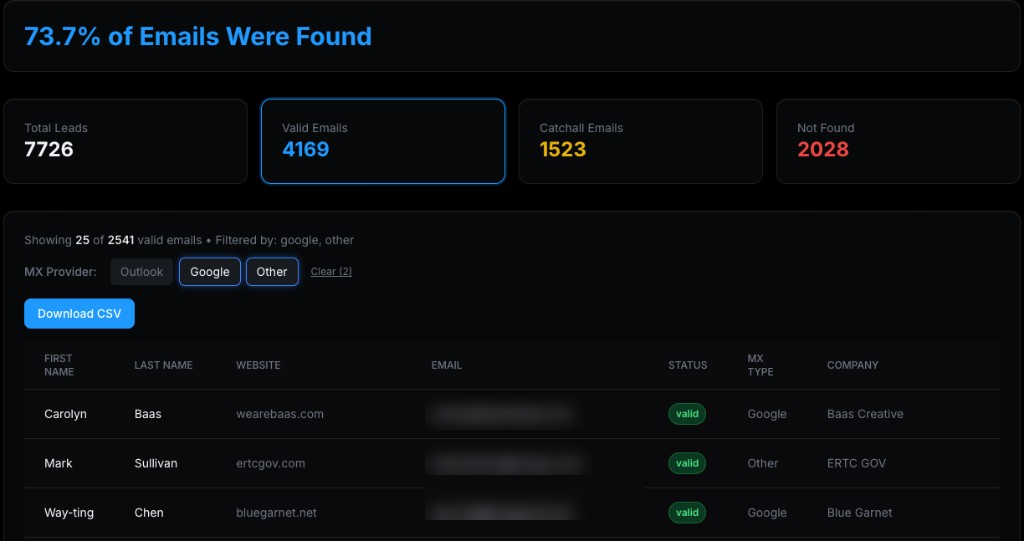
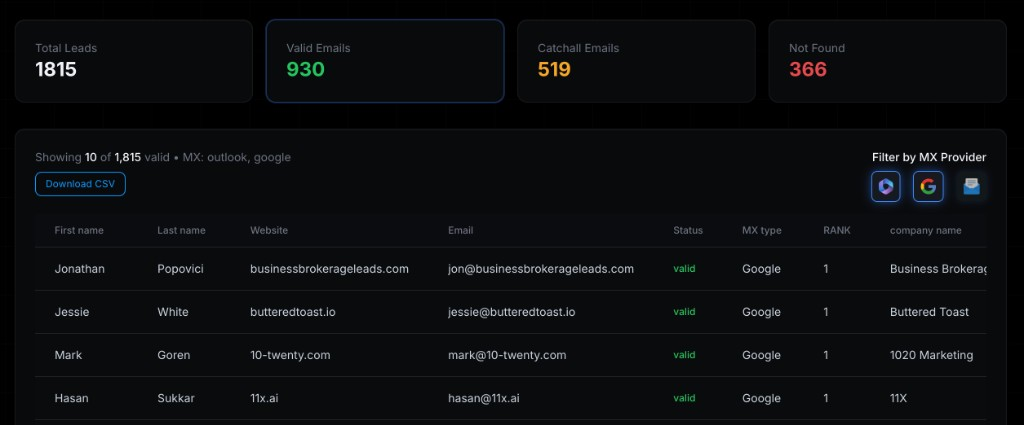
UI polish: LinkedIn branding, input focus states, and marketing page updates
- Replace LinkedIn blue dot with official LinkedIn logo in Sales Nav scraper
- Update Footer LinkedIn icon to brand color (#0A66C2)
- Change input focus rings to subtle blue glow (matches glass-card buttons)
- Update marketing page screenshot with email blurring overlay
- Standardize Download CSV button styling across Results and Sales Nav pages
- Refine Sales Nav cookie status messaging ("Cookie Set" vs "Add cookie")

Made-with: Cursor

diff --git a/frontend/app/(dashboard)/sales-nav-scraper/page.tsx b/frontend/app/(dashboard)/sales-nav-scraper/page.tsx
@@ -533,28 +533,24 @@ export default function SalesNavScraperPage() {
       <div className="glass-card px-6 py-3 mb-6">
         <div className="flex items-center justify-between">
           <div className="flex items-center gap-3">
+            <svg className="w-6 h-6 text-[#0A66C2]" fill="currentColor" viewBox="0 0 24 24">
+              <path d="M20.447 20.452h-3.554v-5.569c0-1.328-.027-3.037-1.852-3.037-1.853 0-2.136 1.445-2.136 2.939v5.667H9.351V9h3.414v1.561h.046c.477-.9 1.637-1.85 3.37-1.85 3.601 0 4.267 2.37 4.267 5.455v6.286zM5.337 7.433c-1.144 0-2.063-.926-2.063-2.065 0-1.138.92-2.063 2.063-2.063 1.14 0 2.064.925 2.064 2.063 0 1.139-.925 2.065-2.064 2.065zm1.782 13.019H3.555V9h3.564v11.452zM22.225 0H1.771C.792 0 0 .774 0 1.729v20.542C0 23.227.792 24 1.771 24h20.451C23.2 24 24 23.227 24 22.271V1.729C24 .774 23.2 0 22.222 0h.003z" />
+            </svg>
             {linkedinCookie.trim() ? (
-              <>
-                <div className="w-3 h-3 rounded-full bg-green-500"></div>
-                <div>
-                  <p className="text-sm font-medium text-dashboard-text">LinkedIn Cookie Ready <span className="text-red-500">*</span></p>
-                  <p className="text-xs text-dashboard-text-muted">Custom cookie entered</p>
-                </div>
-              </>
+              <div>
+                <p className="text-sm font-medium text-dashboard-text">LinkedIn Cookie Set <span className="text-red-500">*</span></p>
+              </div>
             ) : (
-              <>
-                <div className="w-3 h-3 rounded-full bg-blue-500"></div>
-                <div>
-                  <p className="text-sm font-medium text-dashboard-text">LinkedIn Cookie <span className="text-red-500">*</span></p>
-                </div>
-              </>
+              <div>
+                <p className="text-sm font-medium text-dashboard-text">LinkedIn Cookie <span className="text-red-500">*</span></p>
+              </div>
             )}
           </div>
           <button
             onClick={() => setShowAuthModal(true)}
             className="px-4 py-2 border border-dashboard-accent text-dashboard-accent bg-transparent rounded-lg hover:bg-dashboard-accent/10 transition-colors text-sm font-medium"
           >
-            {linkedinCookie.trim() ? "Update Cookie" : "Add Custom Cookie"}
+            {linkedinCookie.trim() ? "Update Cookie" : "Add cookie"}
           </button>
         </div>
       </div>

diff --git a/frontend/app/globals.css b/frontend/app/globals.css
@@ -101,8 +101,13 @@
     backdrop-filter: blur(8px);
     -webkit-backdrop-filter: blur(8px);
     @apply border border-dashboard-border rounded-lg px-4 py-2 text-dashboard-text placeholder-dashboard-text-muted;
-    @apply focus:outline-none focus:ring-2 focus:ring-dashboard-accent focus:border-dashboard-accent;
+    @apply focus:outline-none;
     transition: all 0.2s ease;
+  }
+
+  .dashbrd-input:focus {
+    border-color: rgba(59, 130, 246, 0.35);
+    box-shadow: 0 0 0 1px rgba(59, 130, 246, 0.25);
   }
 
   .apple-input {
@@ -111,8 +116,13 @@
     -webkit-backdrop-filter: blur(8px);
     border: 1px solid rgba(255, 255, 255, 0.08);
     @apply rounded-lg px-4 py-2 text-dashboard-text placeholder-dashboard-text-muted;
-    @apply focus:outline-none focus:ring-2 focus:ring-[#0099FF] focus:border-[#0099FF];
+    @apply focus:outline-none;
     transition: all 0.2s ease;
+  }
+
+  .apple-input:focus {
+    border-color: rgba(59, 130, 246, 0.35);
+    box-shadow: 0 0 0 1px rgba(59, 130, 246, 0.25);
   }
 
   /* Glass input - explicit glass treatment for form fields */
@@ -123,8 +133,13 @@
     border: 1px solid rgba(255, 255, 255, 0.08);
     border-radius: 0.5rem;
     @apply px-4 py-2 text-white placeholder-gray-500;
-    @apply focus:outline-none focus:ring-2 focus:ring-[#0099FF] focus:border-[#0099FF];
+    @apply focus:outline-none;
     transition: all 0.2s ease;
+  }
+
+  .glass-input:focus {
+    border-color: rgba(59, 130, 246, 0.35);
+    box-shadow: 0 0 0 1px rgba(59, 130, 246, 0.25);
   }
 
   .glass-input:hover {

diff --git a/frontend/components/marketing/MarketingPage.tsx b/frontend/components/marketing/MarketingPage.tsx
@@ -373,13 +373,20 @@ export function MarketingPage() {
 
             {/* Dashboard Preview */}
             <div className="relative w-full max-w-5xl mx-auto mt-4 animate-fade-in-up" style={{ animationDelay: "0.2s" }}>
-              <div className="rounded-xl overflow-hidden border border-white/[0.08] shadow-[0_20px_60px_rgba(0,0,0,0.5)]">
+              <div className="relative rounded-xl overflow-hidden border border-white/[0.08] shadow-[0_20px_60px_rgba(0,0,0,0.5)]">
                 <img
                   src="/images/dashboard-preview.png"
                   alt="BillionVerifier dashboard — email verification results"
-                  className="w-full block object-cover object-top"
-                  style={{ height: "472px" }}
+                  className="w-full block"
                 />
+                {/* Per-row email blur overlays */}
+                {[63, 72.5, 82, 91.5].map((top) => (
+                  <div
+                    key={top}
+                    className="absolute pointer-events-none backdrop-blur-[3px]"
+                    style={{ left: "43%", width: "22%", top: `${top}%`, height: "5%" }}
+                  />
+                ))}
               </div>
               <div className="absolute inset-x-0 bottom-0 h-24 bg-gradient-to-t from-black to-transparent pointer-events-none" />
             </div>

diff --git a/frontend/components/common/Footer.tsx b/frontend/components/common/Footer.tsx
@@ -29,7 +29,7 @@ export function Footer() {
               Professional email verification service for your business.
             </p>
             <div className="flex items-center gap-4">
-              <a href="https://www.linkedin.com/company/billionverifier/" target="_blank" rel="noopener noreferrer" className="text-dashboard-text-muted hover:text-dashboard-accent transition-colors">
+              <a href="https://www.linkedin.com/company/billionverifier/" target="_blank" rel="noopener noreferrer" className="text-[#0A66C2] hover:opacity-80 transition-opacity">
                 <svg className="w-6 h-6" fill="currentColor" viewBox="0 0 24 24">
                   <path d="M20.447 20.452h-3.554v-5.569c0-1.328-.027-3.037-1.852-3.037-1.853 0-2.136 1.445-2.136 2.939v5.667H9.351V9h3.414v1.561h.046c.477-.9 1.637-1.85 3.37-1.85 3.601 0 4.267 2.37 4.267 5.455v6.286zM5.337 7.433c-1.144 0-2.063-.926-2.063-2.065 0-1.138.92-2.063 2.063-2.063 1.14 0 2.064.925 2.064 2.063 0 1.139-.925 2.065-2.064 2.065zm1.782 13.019H3.555V9h3.564v11.452zM22.225 0H1.771C.792 0 0 .774 0 1.729v20.542C0 23.227.792 24 1.771 24h20.451C23.2 24 24 23.227 24 22.271V1.729C24 .774 23.2 0 22.222 0h.003z" />
                 </svg>

diff --git a/frontend/app/(dashboard)/results/[jobId]/page.tsx b/frontend/app/(dashboard)/results/[jobId]/page.tsx
@@ -283,9 +283,9 @@ export default function ResultsPage() {
                 <button
                   onClick={handleDownload}
                   disabled={downloading || filteredLeads.length === 0}
-                  className="px-4 py-2 bg-dashboard-accent text-white rounded-lg hover:opacity-90 transition-opacity text-sm font-medium disabled:opacity-50 disabled:cursor-not-allowed"
+                  className="px-3 py-1.5 border border-dashboard-accent text-dashboard-accent bg-transparent text-xs rounded-lg hover:bg-dashboard-accent/10 transition-colors disabled:opacity-50"
                 >
-                  {downloading ? "Downloading..." : "Download"}
+                  {downloading ? "Downloading..." : "Download CSV"}
                 </button>
               </div>
             </div>
